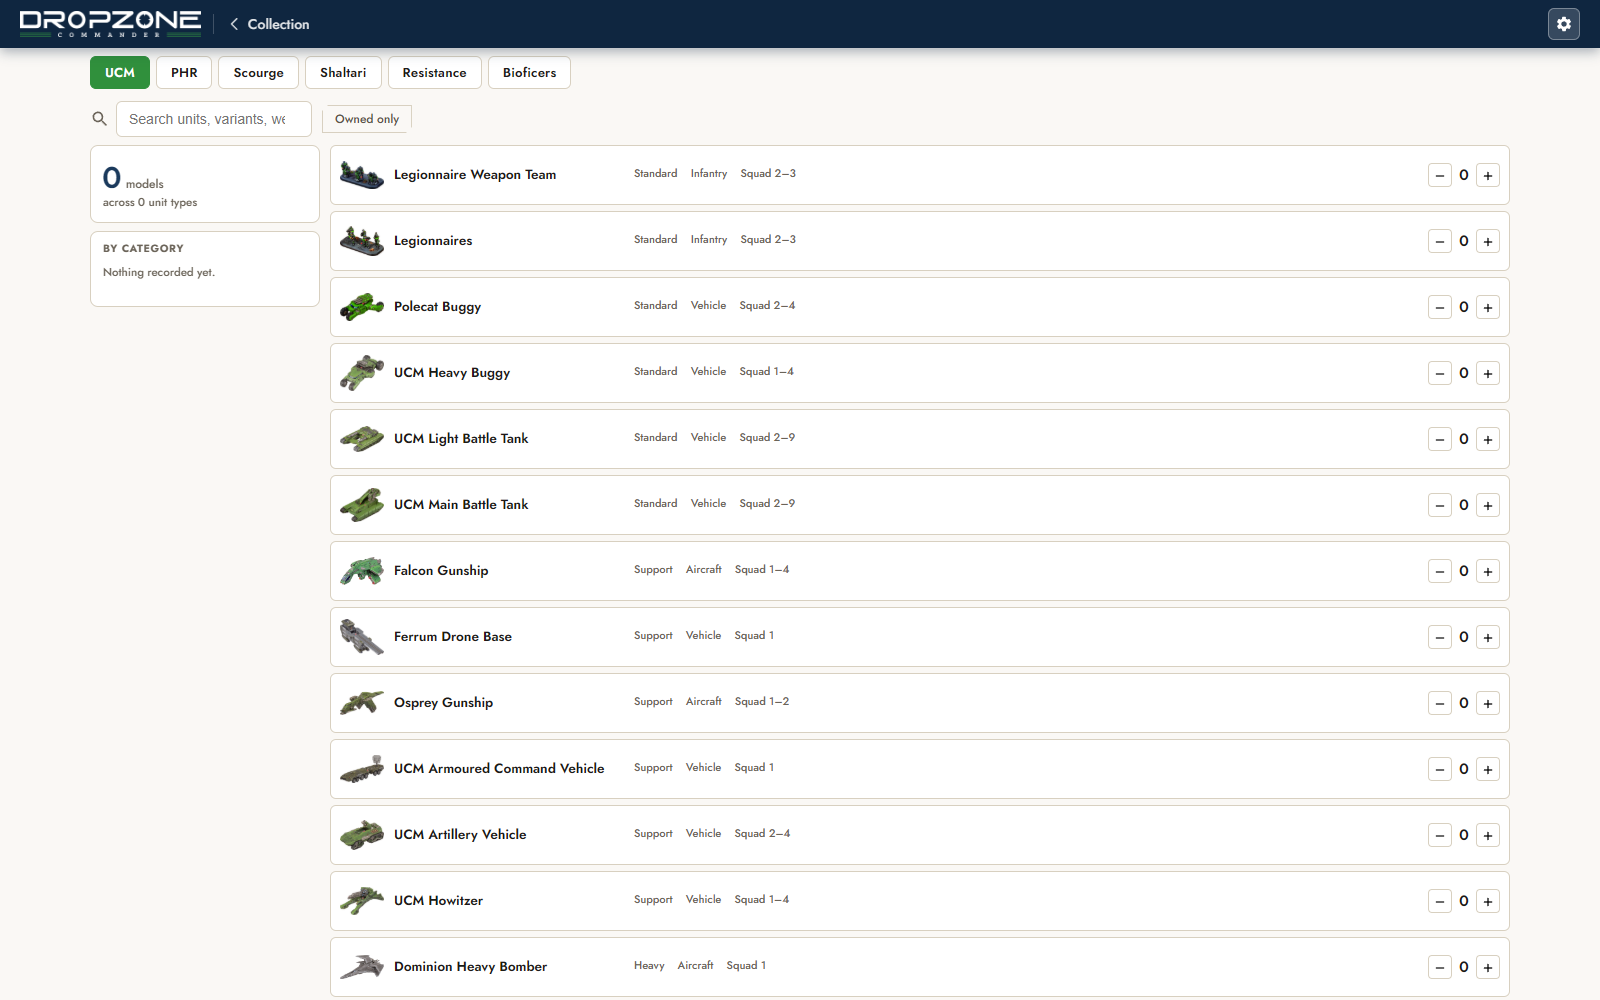
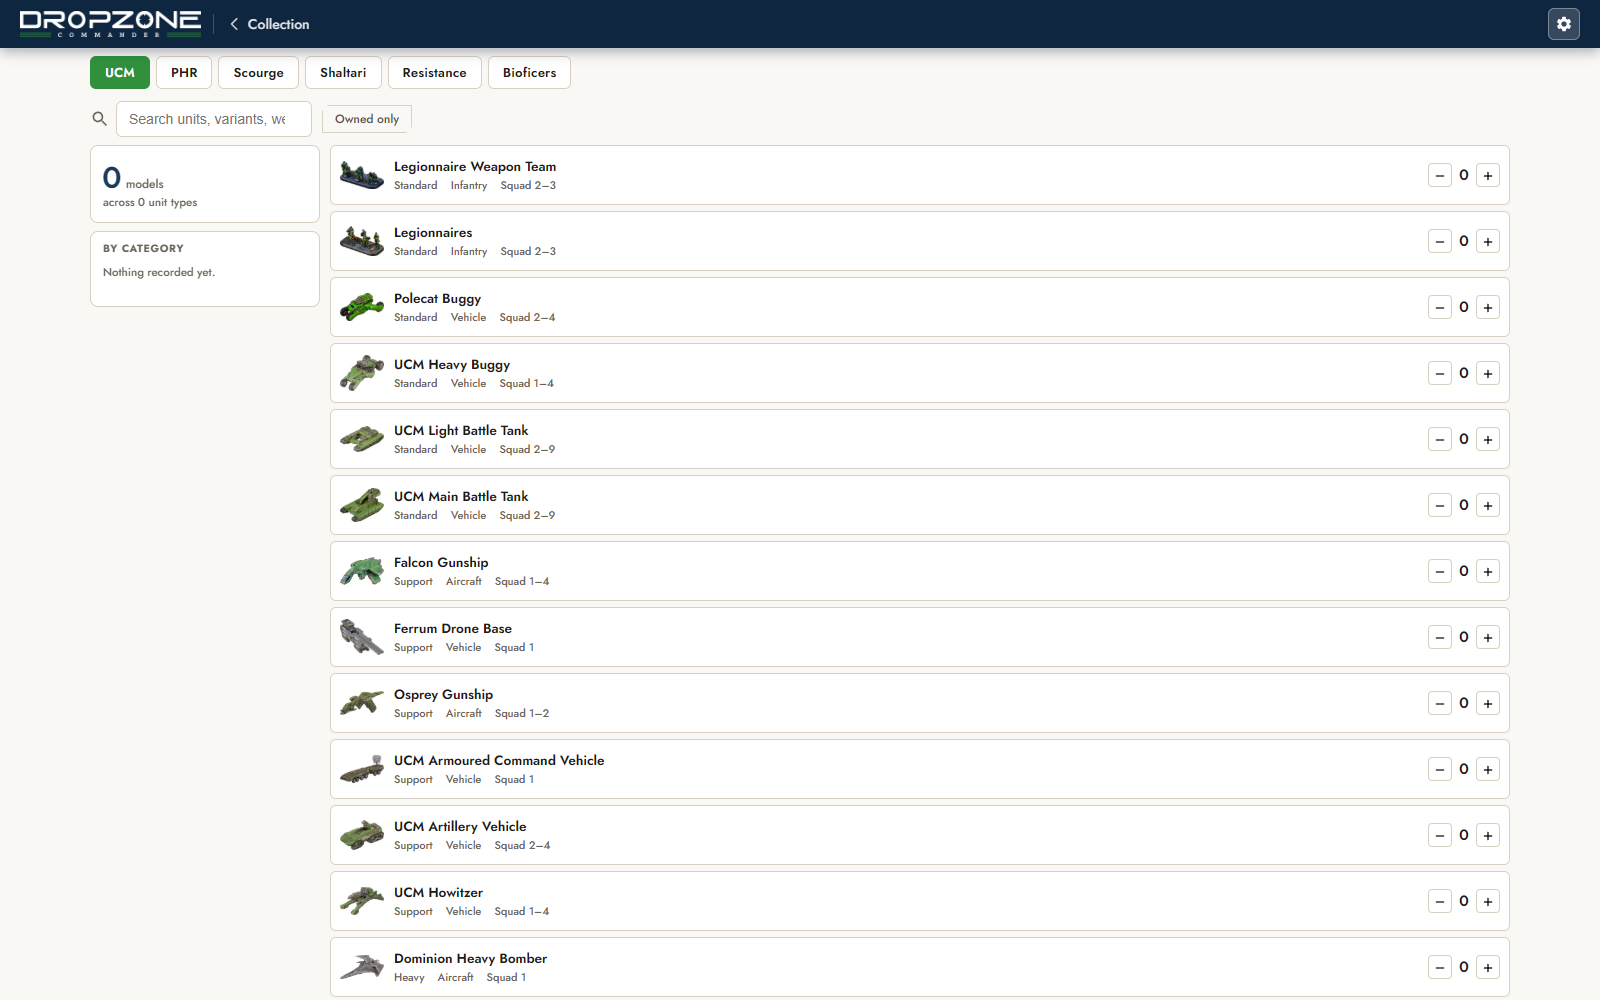
Fix a class collision I shipped an hour ago
The Collection rail wrapper was called .dzc-coll-body, and .dzc-coll-body was
already the inner span of every unit row. So a two-column grid meant for one
wrapper was being applied to all 178 rows underneath it.

The wrapper is .dzc-coll-panes now. The rows are untouched and always were —
they just had a grid forced on them.

Checked the rendered page rather than the diff, which is the only reason this
was caught: the rows still lined up left-to-right, so nothing looked obviously
broken in the markup.

diff --git a/css/dzc.css b/css/dzc.css
@@ -126,11 +126,11 @@
 
 /* Collection keeps panes: the running totals stay put while a 178-row list
    scrolls beside them. */
-.dzc-coll-body { display: grid; grid-template-columns: 230px minmax(0, 1fr); gap: 10px; align-items: start; }
+.dzc-coll-panes { display: grid; grid-template-columns: 230px minmax(0, 1fr); gap: 10px; align-items: start; }
 .dzc-coll-rail { position: sticky; top: 12px; display: flex; flex-direction: column; gap: 8px; }
 .dzc-coll-main { min-width: 0; }
 @media (max-width: 900px) {
-  .dzc-coll-body { grid-template-columns: 1fr; }
+  .dzc-coll-panes { grid-template-columns: 1fr; }
   .dzc-coll-rail { position: static; flex-direction: row; flex-wrap: wrap; }
   .dzc-coll-rail .dzc-rail-card { flex: 1 1 200px; }
 }

diff --git a/js/dzc-collection.js b/js/dzc-collection.js
@@ -113,7 +113,7 @@
       <!-- Panes on a desktop, like the builder and Play. What you own is a
            standing total you glance at while scrolling a long list; putting it
            at the top meant it scrolled away immediately. -->
-      <div class="dzc-coll-body">
+      <div class="dzc-coll-panes">
         <aside class="dzc-coll-rail">
           <div class="dzc-rail-card">
             <div class="dzc-rail-pts"><b>${totals}</b><span>model${totals === 1 ? '' : 's'}</span></div>
